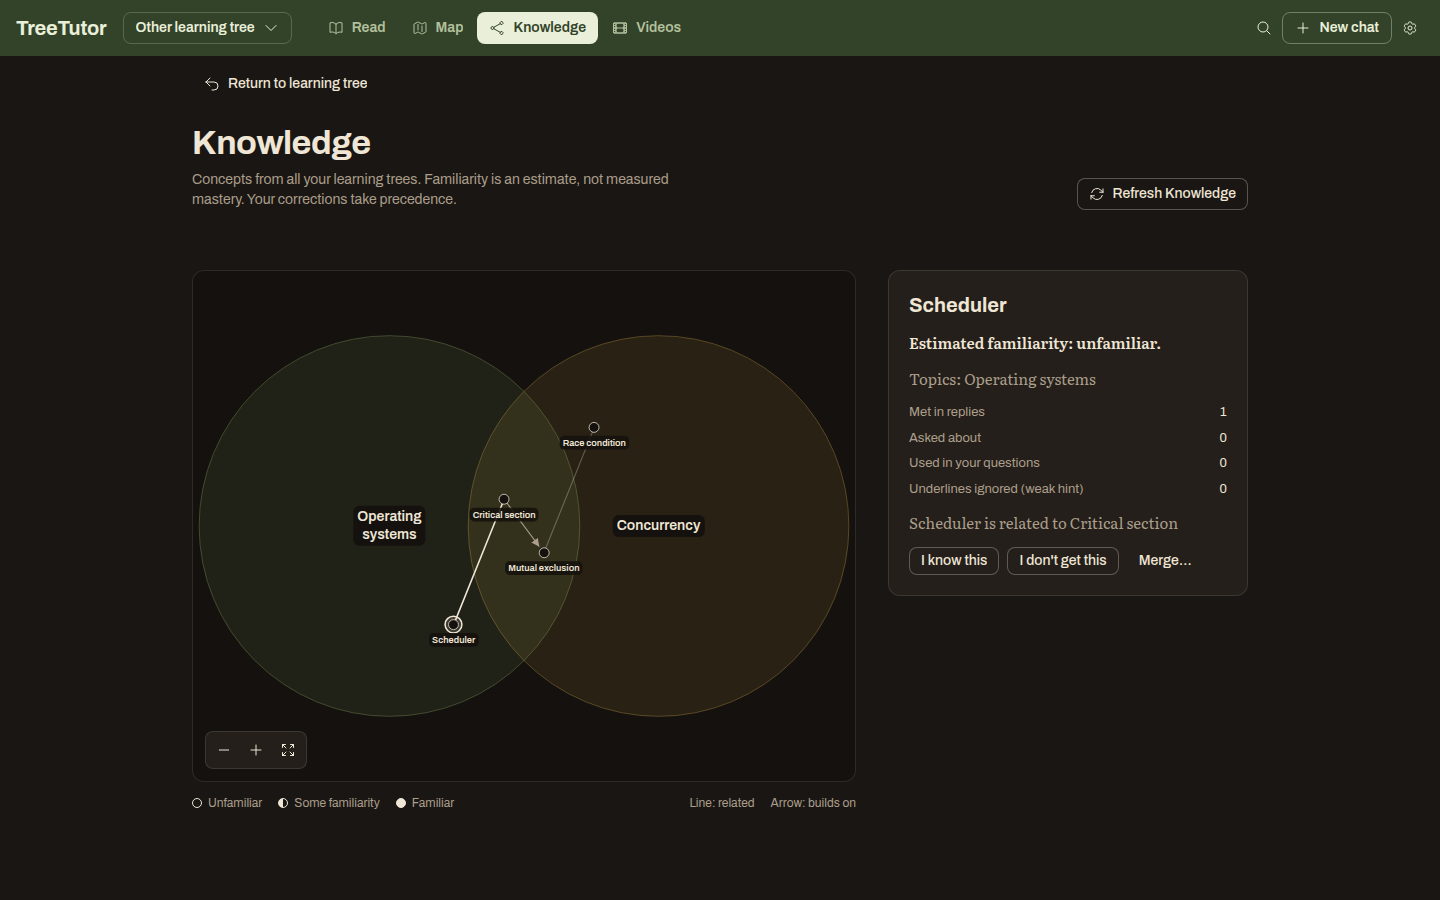
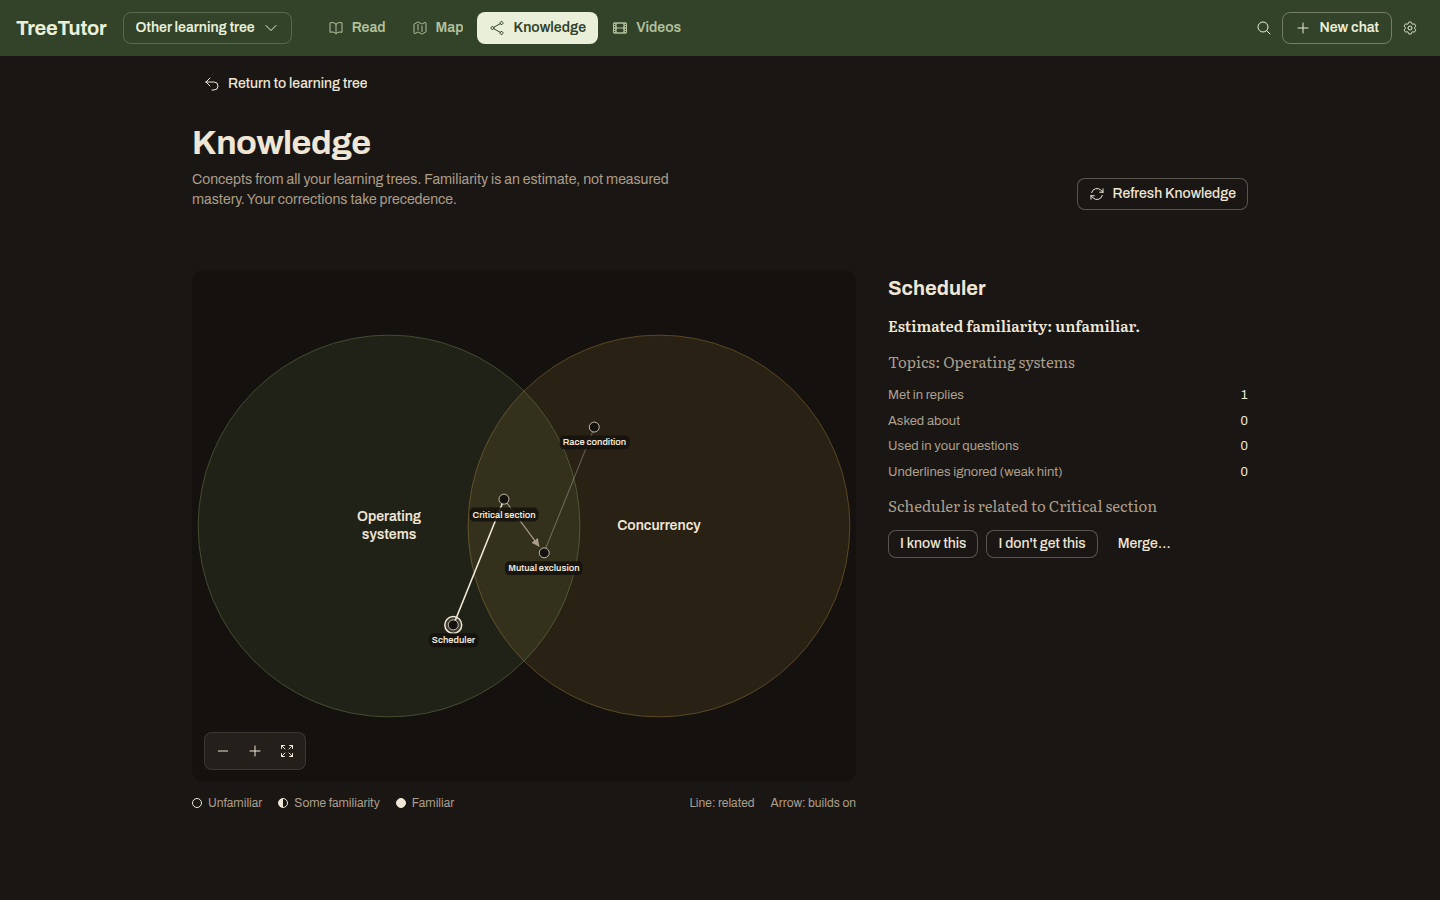
task: TreeTutor-2li.5 One frame per object on Knowledge

diff --git a/src/layout.ts b/src/layout.ts
@@ -79,12 +79,12 @@ html { view-transition-name: none; }
 .knowledge-panel > .knowledge-header + .knowledge-content { padding-block-start: calc(3 * var(--treetutor-module)); }
 .knowledge-content :focus-visible { outline: var(--focus-outline-width) solid var(--treetutor-paper); outline-offset: var(--focus-outline-offset); }
 .knowledge-body { display: grid; grid-template-columns: minmax(0, 1fr) minmax(16rem, 360px); gap: calc(4 * var(--treetutor-module)); align-items: start; }
-.knowledge-field { position: relative; height: 32rem; min-width: 0; overflow: hidden; border: thin solid var(--color-border); border-radius: var(--radius-container); background: var(--color-background-muted); cursor: grab; touch-action: none; }
+.knowledge-field { position: relative; height: 32rem; min-width: 0; overflow: hidden; border-radius: var(--radius-container); background: var(--color-background-muted); cursor: grab; touch-action: none; }
 .knowledge-field:active { cursor: grabbing; }
 .knowledge-map { position: absolute; left: 0; top: 0; transform-origin: 0 0; }
 .knowledge-links, .knowledge-regions { position: absolute; left: 0; top: 0; width: 1px; height: 1px; overflow: visible; pointer-events: none; }
 .knowledge-regions circle { fill: currentColor; fill-opacity: 0.1; stroke: currentColor; stroke-opacity: 0.4; stroke-width: 1px; vector-effect: non-scaling-stroke; }
-.topic-label { position: absolute; width: min-content; padding: 2px 4px; border-radius: var(--radius-inner); background: var(--color-background-muted); color: var(--color-text-primary); font-size: 14px; line-height: 1.3; font-weight: var(--font-weight-semibold); text-align: center; overflow-wrap: break-word; }
+.topic-label { position: absolute; width: min-content; color: var(--color-text-primary); font-size: 14px; line-height: 1.3; font-weight: var(--font-weight-semibold); text-align: center; overflow-wrap: break-word; }
 .knowledge-links line { stroke: var(--color-border-emphasized); stroke-width: 1.5px; stroke-linecap: round; }
 .knowledge-links line[data-kind="builds on"] { stroke: var(--color-text-secondary); }
 .knowledge-links line[data-selected=true] { stroke: var(--treetutor-paper); stroke-width: 2px; }
@@ -102,7 +102,7 @@ html { view-transition-name: none; }
 .knowledge-key { display: flex; flex-wrap: wrap; gap: 8px 16px; margin-top: 12px; font-size: 12px; color: var(--color-text-secondary); }
 .knowledge-key span { display: inline-flex; align-items: center; gap: 6px; }
 .knowledge-key-links { margin-inline-start: auto; }
-.knowledge-detail { position: sticky; top: 0; padding: 20px; border: thin solid var(--color-border); border-radius: var(--radius-container); background: var(--color-background-surface); }
+.knowledge-detail { position: sticky; top: 0; padding: 4px 0 0; }
 .knowledge-detail h2 { font-size: 20px; font-weight: 700; }
 .knowledge-reading, .knowledge-reading.astryx-text { font-family: var(--treetutor-font-reading); font-size: 15px; line-height: 1.6; color: var(--color-text-secondary); }
 .knowledge-reading strong { color: var(--color-text-primary); font-weight: 600; }

diff --git a/DESIGN.md b/DESIGN.md
@@ -316,7 +316,7 @@ The system is flat, and depth comes from tone. The order runs from Deep Panel (r
 
 ## Shapes
 
-Corners are barely softened, which keeps the pages printed and square. Interactive elements (buttons, tabs, rows, chips, nodes, volumes, concept cards, failure banners) use the element radius (3px). Containers and sheets (the composer, code blocks, diagram cards, the Knowledge field and detail panel, dialogs, lightboxes, video frames) use the container radius (4px). Inline marks (address chips, inline code, the context meter, highlight marks, usage swatches) use the inner radius (2px). Volume spine ticks are 4×6px with a 1px tick radius.
+Corners are barely softened, which keeps the pages printed and square. Interactive elements (buttons, tabs, rows, chips, nodes, volumes, concept cards, failure banners) use the element radius (3px). Containers and sheets (the composer, code blocks, diagram cards, the Knowledge field, dialogs, lightboxes, video frames) use the container radius (4px). Inline marks (address chips, inline code, the context meter, highlight marks, usage swatches) use the inner radius (2px). Volume spine ticks are 4×6px with a 1px tick radius.
 
 Circles are reserved for meaning-bearing dots. The full radius (rendered as `50%`) shapes family ink dots in Contents and the map legend, activity dots, the streaming dot and the familiarity rings in Knowledge (empty, half-filled or filled to show familiarity). The scrollbar thumb is the only pill shape (999px). Neither is a pattern for buttons. Ink bands (the volume cover and node bands) are flat fills that inherit the container's top corners.
 
@@ -367,7 +367,7 @@ Circles are reserved for meaning-bearing dots. The full radius (rendered as `50%
 - **Error:** Rose text and a rose border. Failure banners use Rose Wash with a rose hairline, a 3px radius and 8px 12px padding.
 
 ### Knowledge
-- Concept cards are Raised Bark at 3px, with a Seam Strong border, 6px 10px padding and a familiarity ring before the name. The selected card gets a 2px paper outline offset by 3px. Links between concepts are 1.5px Seam Strong lines, "builds on" links are drawn in Paper Muted, and the selected link is a 2px paper line.
+- The concept field is a borderless Deep Panel at the container corner; the detail panel beside it has no frame or fill and is set apart by spacing. Concepts are familiarity rings with a name on a soft tonal label, with no border. Topic names are plain text over their translucent region, never chips. The selected concept's ring gets a 2px paper outline offset by 3px. Links between concepts are 1.5px Seam Strong lines, "builds on" links are drawn in Paper Muted, and the selected link is a 2px paper line.
 
 ### Settings
 - Settings is a page, not a modal. A page title sits over a sticky section nav. Sections are divided by seams and headed by small-caps section labels, not cards. Usage shows bar series in lichen (input), leaf (output) and amber (cache read).
